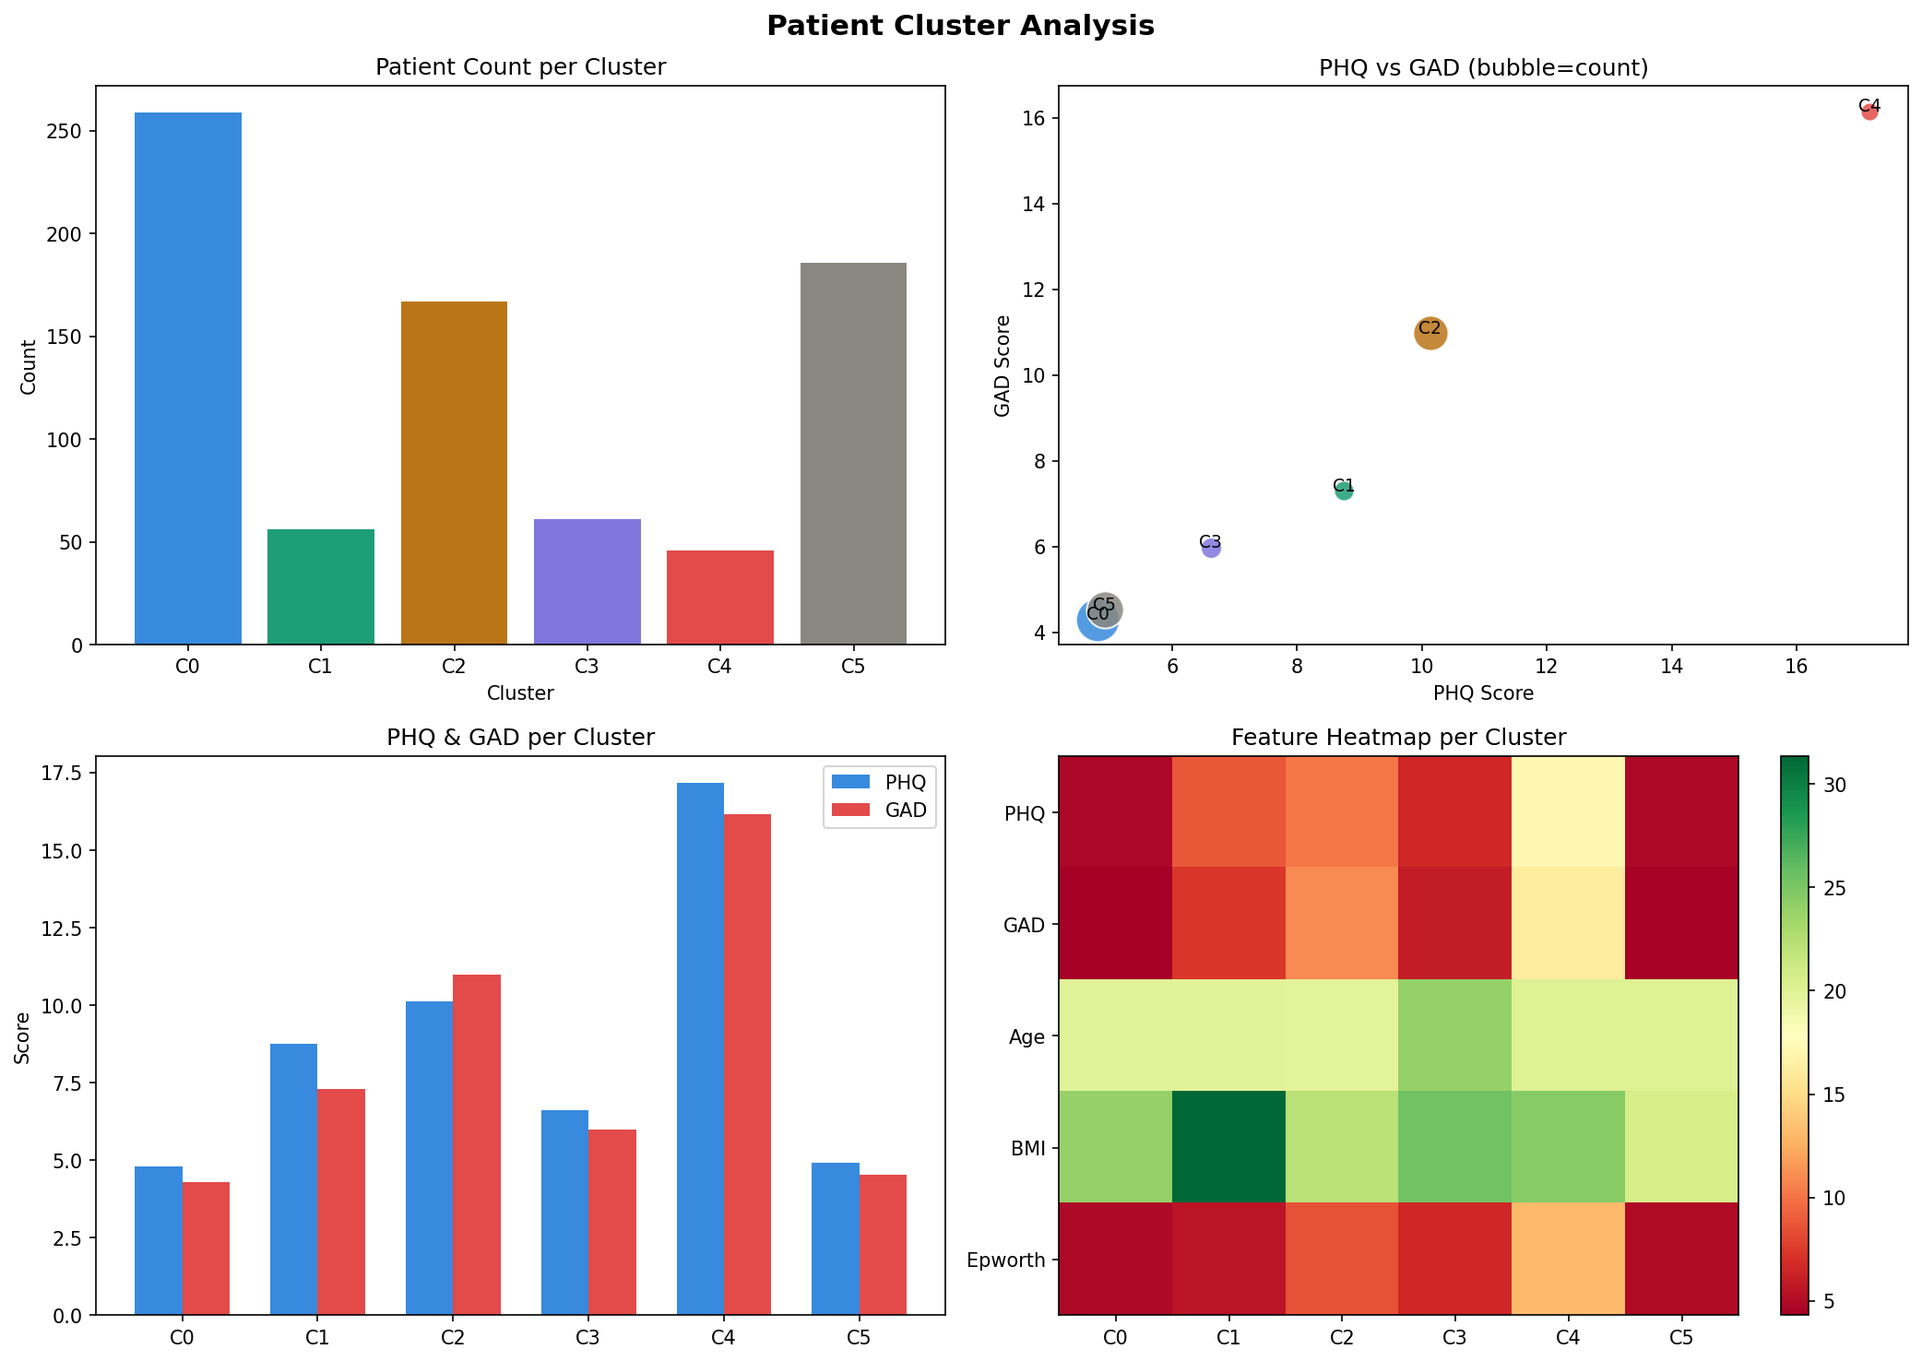
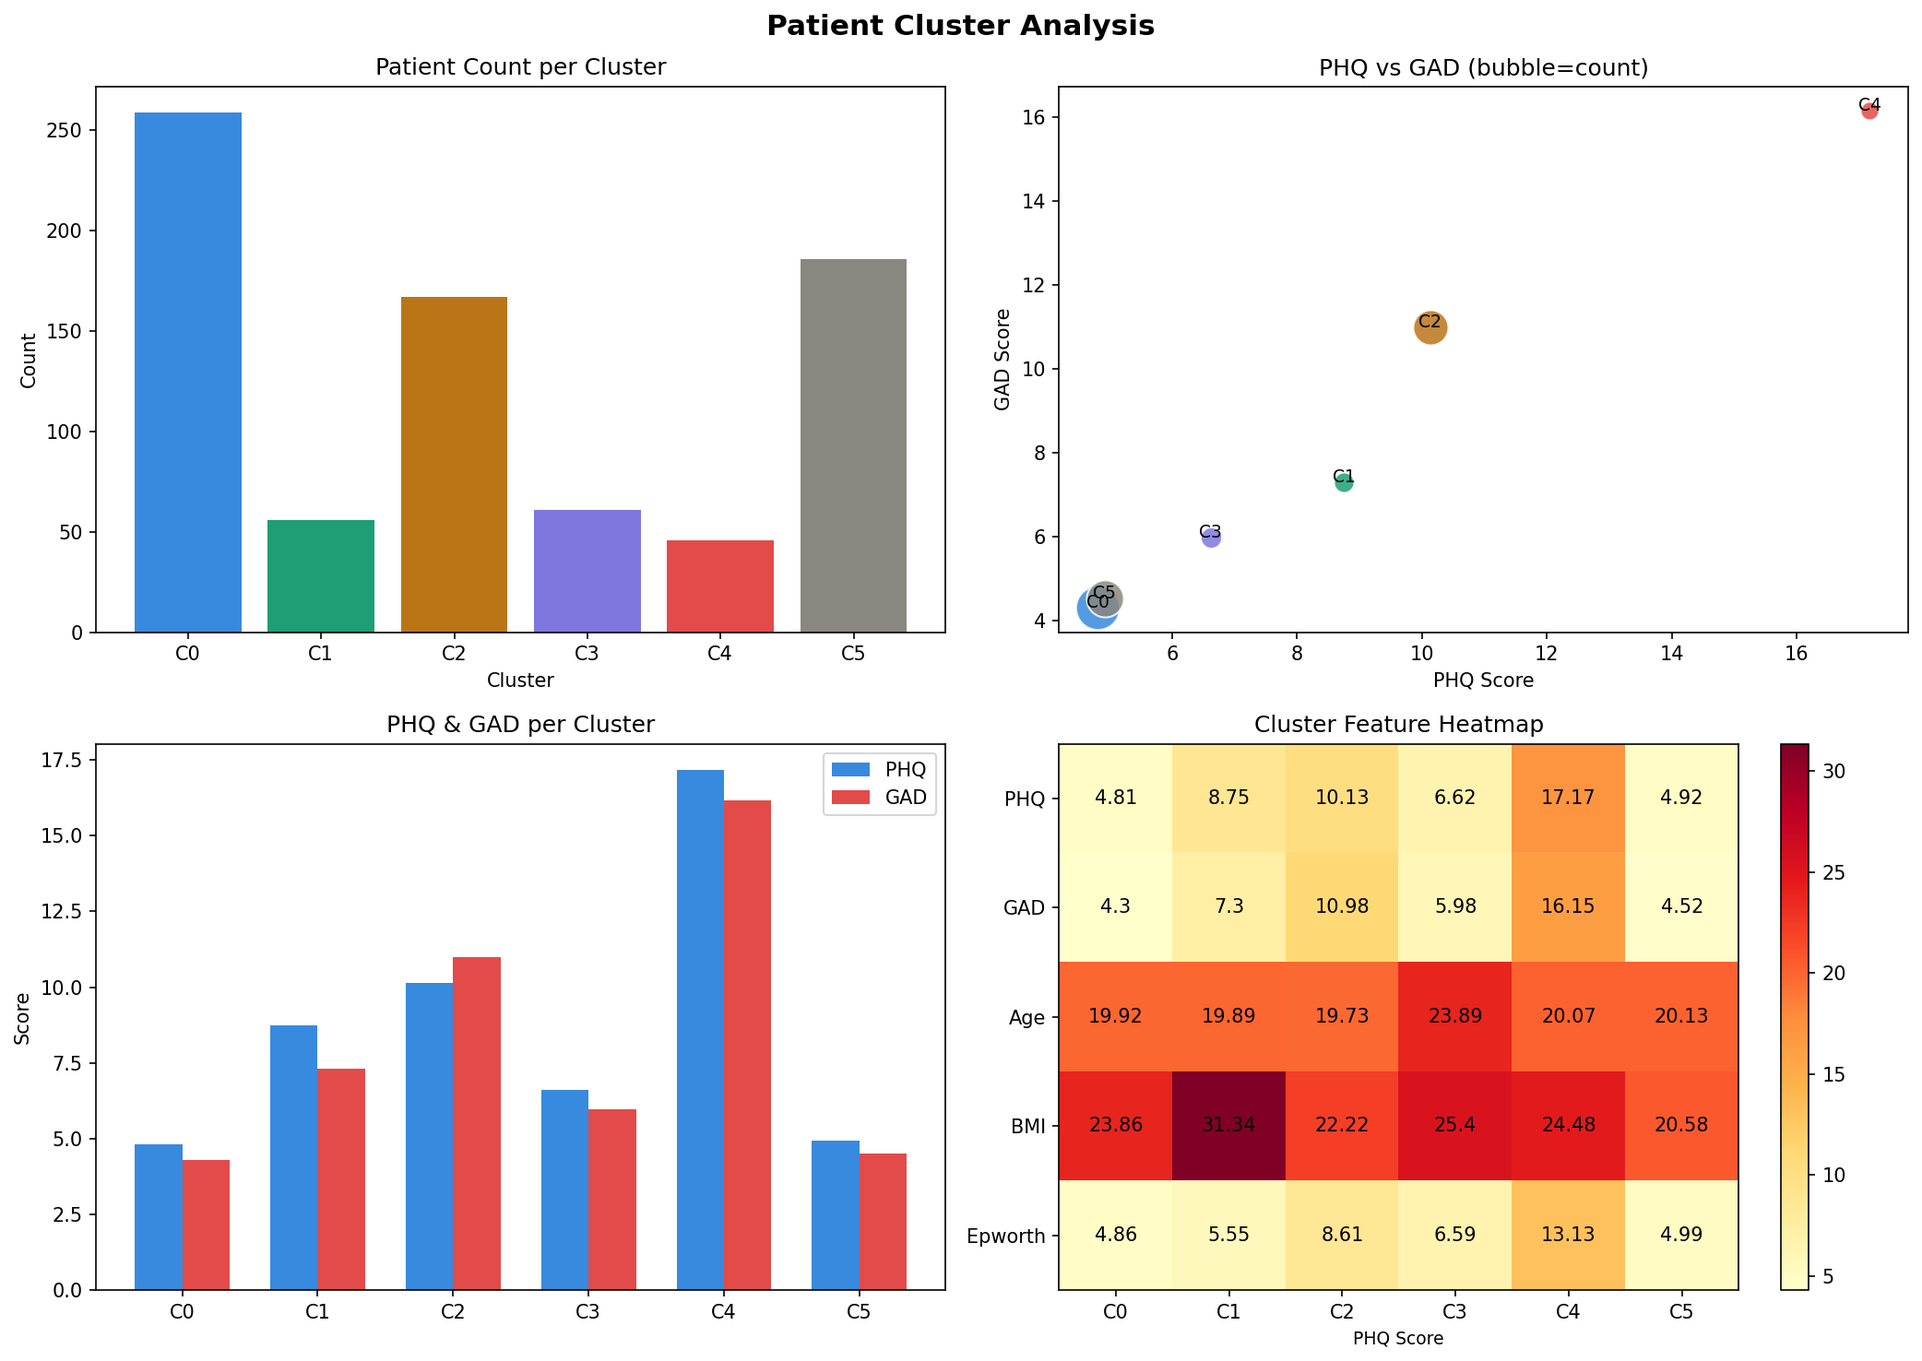
Changes in scripts

diff --git a/scripts/week3/ds3_geo_spatial_analysis.py b/scripts/week3/ds3_geo_spatial_analysis.py
@@ -13,7 +13,7 @@ imd    = pd.read_csv("datasets/File_1_IoD2025 Index of Multiple Deprivation.csv"
 lookup = pd.read_csv("datasets/LSOA_(2021)_to_SICBL_to_ICB_to_LAD_(April_2023)_Lookup_in_EN.csv")
 icb_map= gpd.read_file("datasets/ICB_APR_2023_EN_BGC.shp")
 
-# ── NHS service metrics by ICB ────────────────────────────────────────────────
+# NHS service metrics by ICB 
 nhs_sub = nhs[nhs['GROUP_TYPE']=='SubICB'].copy()
 nhs_sub['MEASURE_VALUE_SUPPRESSED'] = pd.to_numeric(nhs_sub['MEASURE_VALUE_SUPPRESSED'], errors='coerce')
 code_to_icb = lookup[['SICBL23CDH','ICB23NM']].drop_duplicates().rename(columns={'SICBL23CDH':'ORG_CODE1'})
@@ -33,7 +33,7 @@ for measure,(col,agg) in metrics.items():
     service = sub if service is None else service.merge(sub,on='ICB23NM',how='outer')
 service['Access_Rate'] = (service['Accessing']/service['Referrals']*100).round(2)
 
-# ── IMD → ICB ─────────────────────────────────────────────────────────────────
+# IMD -> ICB 
 imd = imd.rename(columns={
     'LSOA code (2021)':'LSOA21CD',
     'Index of Multiple Deprivation (IMD) Rank (where 1 is most deprived)':'IMD_Rank',
@@ -47,7 +47,7 @@ imd_icb = (imd.merge(lookup[['LSOA21CD','ICB23NM']],on='LSOA21CD',how='inner')
                                    IMD_Decile_Mean=('IMD_Decile','mean'),
                                    n_LSOAs=('LSOA21CD','count')).reset_index().round(4))
 
-# ── Join + Unmet Need Score ───────────────────────────────────────────────────
+# Join + Unmet Need Score 
 final = service.merge(imd_icb, on='ICB23NM', how='inner')
 
 def norm(s, invert=False):
@@ -70,10 +70,10 @@ final['underserved'] = (
      (final['Recovery_Rate']<= final['Recovery_Rate'].quantile(0.25)))
 )
 
-# ── Spatial join ──────────────────────────────────────────────────────────────
+# Spatial join 
 geo = icb_map.to_crs('EPSG:27700').merge(final, on='ICB23NM', how='left')
 
-# ── Plot 1: IMD map ───────────────────────────────────────────────────────────
+# Plot 1: IMD map 
 fig, ax = plt.subplots(figsize=(7, 7))
 geo.plot(ax=ax, column='IMD_Score_Mean', cmap='YlOrRd', linewidth=0.5, edgecolor='gray', legend=True)
 for _,row in geo.nlargest(5,'IMD_Score_Mean').iterrows():
@@ -85,7 +85,7 @@ ax.set_title('Average IMD Score by ICB — England',fontsize=12,fontweight='bold
 plt.tight_layout()
 plt.savefig(f"{OUT}/spatial_imd_map.png", dpi=150, bbox_inches='tight'); plt.close()
 
-# ── Plot 2: Access rate map ───────────────────────────────────────────────────
+#  Plot 2: Access rate map 
 fig, ax = plt.subplots(figsize=(7, 7))
 geo.plot(ax=ax, column='Access_Rate', cmap='RdYlGn', linewidth=0.5, edgecolor='gray', legend=True)
 for _,row in geo.nsmallest(5,'Access_Rate').iterrows():
@@ -97,7 +97,7 @@ ax.set_title('NHS Talking Therapies — Access Rate by ICB',fontsize=12,fontweig
 plt.tight_layout()
 plt.savefig(f"{OUT}/spatial_access_rate_map.png", dpi=150, bbox_inches='tight'); plt.close()
 
-# ── Plot 3: Underserved areas ─────────────────────────────────────────────────
+#  Plot 3: Underserved areas 
 fig, ax = plt.subplots(figsize=(7, 7))
 geo[~geo['underserved'].fillna(False)].plot(ax=ax,color='lightgreen',edgecolor='gray',lw=0.6,alpha=0.8)
 geo[geo['underserved'].fillna(False)].plot(ax=ax,color='red',edgecolor='darkred',lw=0.8,alpha=0.9)
@@ -108,7 +108,7 @@ ax.set_title('High-Need / Low-Service ICBs — England',fontsize=12,fontweight='
 plt.tight_layout()
 plt.savefig(f"{OUT}/spatial_underserved_map.png", dpi=150, bbox_inches='tight'); plt.close()
 
-# ── Save CSV ──────────────────────────────────────────────────────────────────
+# Save CSV 
 final.to_csv(f"{OUT}/spatial_icb_analysis.csv", index=False)
 
 n_u = final['underserved'].sum()

diff --git a/scripts/week3/ds2_prescribing_anomaly_detection.py b/scripts/week3/ds2_prescribing_anomaly_detection.py
@@ -33,26 +33,35 @@ df['anomaly_score'] = model.decision_function(X_scaled)
 df['anomaly_flag']  = model.predict(X_scaled)
 df['anomaly_flag']  = df['anomaly_flag'].map({1:'Normal',-1:'Anomaly'})
 
-# ── Plot 1: Score distribution ────────────────────────────────────────────────
-fig, axes = plt.subplots(1, 2, figsize=(14, 5))
+# Plot 1: Score distribution 
+fig, ax = plt.subplots(figsize=(8, 5))
 fig.suptitle('Prescribing Anomaly Detection — Isolation Forest', fontsize=13, fontweight='bold')
 
-axes[0].hist(df[df['anomaly_flag']=='Normal']['anomaly_score'],bins=50,alpha=0.7,color='steelblue',label='Normal')
-axes[0].hist(df[df['anomaly_flag']=='Anomaly']['anomaly_score'],bins=50,alpha=0.7,color='tomato',label='Anomaly')
-axes[0].axvline(0,color='k',linestyle='--',lw=1.5,label='Threshold')
-axes[0].set(title='Anomaly Score Distribution',xlabel='Anomaly Score',ylabel='Count'); axes[0].legend()
+ax.hist(df[df['anomaly_flag']=='Normal']['anomaly_score'], bins=50, alpha=0.7, color='steelblue', label='Normal')
+ax.hist(df[df['anomaly_flag']=='Anomaly']['anomaly_score'], bins=50, alpha=0.7, color='tomato', label='Anomaly')
+ax.axvline(0, color='k', linestyle='--', lw=1.5, label='Threshold')
+ax.set(title='Anomaly Score Distribution', xlabel='Anomaly Score', ylabel='Count')
+ax.legend()
+
+plt.tight_layout()
+plt.savefig(f"{OUT}/anomaly_score_distribution.png", dpi=150, bbox_inches='tight')
+plt.close()
+
+# Plot 2: Top 20 CCGs 
+fig, ax = plt.subplots(figsize=(13, 5))
+fig.suptitle('Prescribing Anomaly Detection — Isolation Forest', fontsize=13, fontweight='bold')
 
 top20 = (df[df['anomaly_flag']=='Anomaly'].groupby('row_name')['anomaly_flag']
          .count().sort_values(ascending=False).head(20))
-top20.plot(kind='bar',color='tomato',alpha=0.8,ax=axes[1],edgecolor='none')
-axes[1].set(title='Top 20 CCGs — Most Anomalous Months',xlabel='',ylabel='Anomalous Months')
-axes[1].tick_params(axis='x',rotation=45)
+top20.plot(kind='bar', color='tomato', alpha=0.8, ax=ax, edgecolor='none')
+ax.set(title='Top 20 CCGs — Most Anomalous Months', xlabel='', ylabel='Anomalous Months')
+ax.tick_params(axis='x', rotation=45)
 
 plt.tight_layout()
-plt.savefig(f"{OUT}/anomaly_overview.png", dpi=150, bbox_inches='tight')
+plt.savefig(f"{OUT}/anomaly_top20_ccgs.png", dpi=150, bbox_inches='tight')
 plt.close()
 
-# ── Plot 2: Heatmap top 10 CCGs ──────────────────────────────────────────────
+# Plot 3: Heatmap top 10 CCGs 
 top10 = df[df['anomaly_flag']=='Anomaly']['row_name'].value_counts().head(10).index
 pivot = df[df['row_name'].isin(top10)].pivot_table(index='row_name',columns='date',values='anomaly_score')
 fig, ax = plt.subplots(figsize=(18, 6))
@@ -62,7 +71,7 @@ plt.tight_layout()
 plt.savefig(f"{OUT}/anomaly_heatmap.png", dpi=150, bbox_inches='tight')
 plt.close()
 
-# ── Save CSV ──────────────────────────────────────────────────────────────────
+# Save CSV 
 out = df[['row_id','row_name','date','actual_cost','items','quantity','total_list_size',
           'cost_per_patient','items_per_patient','quantity_per_patient',
           'cost_per_item','quantity_per_item','anomaly_score','anomaly_flag']].copy()

diff --git a/scripts/week1/ds3_distribution_analysis.py b/scripts/week1/ds3_distribution_analysis.py
@@ -43,7 +43,7 @@ cmd_emp    = pd.DataFrame(raw['cmd_employment'].iloc[25:32, 1:5].values.astype(f
 cmd_smoke  = pd.DataFrame(raw['cmd_smoking'].iloc[25:32,  1:5].values.astype(float), index=DISORDERS, columns=SMOKE)
 cmd_region = pd.DataFrame(raw['cmd_region'].iloc[25:32,   1:10].values.astype(float), index=DISORDERS, columns=REGIONS_S)
 
-# ── Plot 1: CIS-R by sex and age ──────────────────────────────────────────────
+# Plot 1: CIS-R by sex and age 
 fig, axes = plt.subplots(1, 2, figsize=(12, 5))
 fig.suptitle('CIS-R Score Distribution by Sex - APMS 2014', fontsize=13, fontweight='bold')
 x = np.arange(4); w = 0.3
@@ -60,7 +60,7 @@ axes[1].set_xticks(xs); axes[1].set_xticklabels(AGES[:-1], rotation=30)
 axes[1].set(ylabel='CIS-R ≥12 (%)', title='Clinical-Level CMD by Age & Sex'); axes[1].legend()
 plt.tight_layout(); plt.savefig(f"{OUT}/dist_cisr_sex_age.png", dpi=150, bbox_inches='tight'); plt.close()
 
-# ── Plot 2: CMD heatmap + sex bar ────────────────────────────────────────────
+# Plot 2: CMD heatmap + sex bar 
 fig, axes = plt.subplots(1, 2, figsize=(16, 5))
 fig.suptitle('CMD Disorder Prevalence - APMS 2014', fontsize=13, fontweight='bold')
 mat = cmd_age.iloc[:6,:7].values.astype(float)
@@ -79,7 +79,7 @@ axes[1].set_xticks(x); axes[1].set_xticklabels(DISORDERS[:6],rotation=15)
 axes[1].set(ylabel='Prevalence (%)',title='Prevalence by Sex'); axes[1].legend()
 plt.tight_layout(); plt.savefig(f"{OUT}/dist_cmd_heatmap_sex.png",dpi=150,bbox_inches='tight'); plt.close()
 
-# ── Plot 3: Any CMD across segments ──────────────────────────────────────────
+# Plot 3: Any CMD across segments 
 fig, axes = plt.subplots(1, 3, figsize=(18, 5))
 fig.suptitle('Any CMD Across Population Segments - APMS 2014', fontsize=13, fontweight='bold')
 for ax, vals, labels, title in [
@@ -93,7 +93,7 @@ for ax, vals, labels, title in [
     ax.set(ylabel='Any CMD (%)',title=title); ax.set_ylim(0,max(vals)*1.3)
 plt.tight_layout(); plt.savefig(f"{OUT}/dist_any_cmd_segments.png",dpi=150,bbox_inches='tight'); plt.close()
 
-# ── Plot 4: Regional CMD ──────────────────────────────────────────────────────
+# Plot 4: Regional CMD 
 fig, axes = plt.subplots(1, 2, figsize=(16, 5))
 fig.suptitle('Regional CMD — APMS 2014', fontsize=13, fontweight='bold')
 ra = cmd_region.loc['Any CMD'].sort_values()
@@ -111,7 +111,7 @@ for i in range(6):
 axes[1].set_title('Disorder x Region (%)'); plt.colorbar(im2,ax=axes[1],fraction=0.03)
 plt.tight_layout(); plt.savefig(f"{OUT}/dist_regional_cmd.png",dpi=150,bbox_inches='tight'); plt.close()
 
-# ── Plot 5: Temporal trend ────────────────────────────────────────────────────
+# Plot 5: Temporal trend 
 years = [1993,2000,2007,2014]
 trend = {'Men':[10.5,13.4,12.6,13.6],'Women':[17.7,19.2,20.1,21.4],'All':[14.1,16.4,16.4,17.6]}
 fig, axes = plt.subplots(1, 2, figsize=(14, 5))

diff --git a/scripts/week3/ds1_iapt_demand_forecasting.py b/scripts/week3/ds1_iapt_demand_forecasting.py
@@ -16,7 +16,7 @@ df['Month'] = pd.to_datetime(df['Month'], format='%b-%y')
 split = df['Month'].max() - pd.DateOffset(months=6)
 train, test = df[df['Month']<=split], df[df['Month']>split]
 
-# ── Prophet ───────────────────────────────────────────────────────────────────
+# Prophet 
 p_train = train[['Month','Referrals_Received']].rename(columns={'Month':'ds','Referrals_Received':'y'})
 p_test  = test[['Month','Referrals_Received']].rename(columns={'Month':'ds','Referrals_Received':'y'})
 
@@ -27,7 +27,7 @@ p_pred  = m.predict(m.make_future_dataframe(periods=len(p_test),freq='MS',includ
 p_mae   = mean_absolute_error(p_test['y'].values, p_pred)
 p_rmse  = np.sqrt(mean_squared_error(p_test['y'].values, p_pred))
 
-# ── ARIMA ─────────────────────────────────────────────────────────────────────
+# ARIMA 
 arima_tr = train.set_index('Month')['Referrals_Received']
 arima_te = test.set_index('Month')['Referrals_Received']
 ar_res   = ARIMA(arima_tr, order=(2,1,2)).fit()
@@ -35,7 +35,7 @@ ar_pred  = ar_res.predict(start=arima_te.index.min(), end=arima_te.index.max(), 
 a_mae    = mean_absolute_error(arima_te.values, ar_pred.values)
 a_rmse   = np.sqrt(mean_squared_error(arima_te.values, ar_pred.values))
 
-# ── Plot 1: Actual vs Predicted ───────────────────────────────────────────────
+# Plot 1: Actual vs Predicted 
 fig, axes = plt.subplots(1, 2, figsize=(13, 5))
 fig.suptitle('IAPT Referral Forecast — Model Comparison', fontsize=13, fontweight='bold')
 
@@ -53,7 +53,7 @@ plt.tight_layout()
 plt.savefig(f"{OUT}/forecast_model_comparison.png", dpi=150, bbox_inches='tight')
 plt.close()
 
-# ── Plot 2: 3-month ahead forecast ───────────────────────────────────────────
+# Plot 2: 3-month ahead forecast 
 fig, ax = plt.subplots(figsize=(13, 5))
 ax.plot(df['Month'],df['Referrals_Received'],label='Historical',color='steelblue',lw=2)
 ax.plot(fc['ds'],fc['yhat'],label='Prophet Forecast',color='tomato',lw=2,linestyle='--')
@@ -63,7 +63,7 @@ ax.legend(); ax.grid(alpha=0.3); plt.xticks(rotation=45); plt.tight_layout()
 plt.savefig(f"{OUT}/forecast_3month_ahead.png", dpi=150, bbox_inches='tight')
 plt.close()
 
-# ── Save forecast CSV ─────────────────────────────────────────────────────────
+# Save forecast CSV 
 fc_out = fc[['ds','yhat','yhat_lower','yhat_upper']].tail(3).rename(
     columns={'ds':'Month','yhat':'Forecast','yhat_lower':'CI_Lower','yhat_upper':'CI_Upper'})
 fc_out.to_csv(f"{OUT}/forecast_3month_values.csv", index=False)

diff --git a/scripts/week2/ds3_temporal_pattern_detection.py b/scripts/week2/ds3_temporal_pattern_detection.py
@@ -21,7 +21,7 @@ LABELS = ['Burglary worry','Car crime worry','Violent crime worry',
 for col in COLS:
     df[f'{col}_ra3'] = df[col].rolling(window=3, min_periods=2).mean().round(4)
 
-# ── Plot 1: Rolling averages ──────────────────────────────────────────────────
+# Plot 1: Rolling averages 
 fig, axes = plt.subplots(2, 1, figsize=(12, 8))
 fig.suptitle('CSEW Mental Health Proxy - 3-Year Rolling Averages', fontsize=13, fontweight='bold')
 
@@ -43,7 +43,7 @@ plt.tight_layout()
 plt.savefig(f"{OUT}/temporal_rolling_averages.png", dpi=150, bbox_inches='tight')
 plt.close()
 
-# ── Chow Test ────────────────────────────────────────────────────────────────
+# Chow Test 
 def chow_test(series, years, break_year):
     mask = ~np.isnan(series); y=series[mask]; x=years[mask]
     def rss(xs,ys):
@@ -66,7 +66,7 @@ for col,lbl in zip(COLS,LABELS):
                     'Significant':'YES' if isinstance(p,float) and p<0.05 else 'NO'})
 res_df = pd.DataFrame(results)
 
-# ── Plot 2: F-stat scan for each variable ────────────────────────────────────
+# Plot 2: F-stat scan for each variable 
 fig, axes = plt.subplots(2, 3, figsize=(16, 8))
 fig.suptitle('Chow Test — Structural Break Scan per Variable', fontsize=13, fontweight='bold')
 axes = axes.flatten()

diff --git a/scripts/week2/ds2_clustering_patient_segments.py b/scripts/week2/ds2_clustering_patient_segments.py
@@ -60,11 +60,24 @@ axes[1,0].bar(x+w/2,profiles['gad_score'],w,label='GAD',color='#E24B4A',edgecolo
 axes[1,0].set_xticks(x); axes[1,0].set_xticklabels([f'C{i}' for i in range(best_k)])
 axes[1,0].set(title='PHQ & GAD per Cluster',ylabel='Score'); axes[1,0].legend()
 
-hm = profiles[['phq_score','gad_score','age','bmi','epworth_score']].values
-im = axes[1,1].imshow(hm.T,cmap='RdYlGn',aspect='auto')
-axes[1,1].set_xticks(range(best_k)); axes[1,1].set_xticklabels([f'C{i}' for i in range(best_k)])
-axes[1,1].set_yticks(range(5)); axes[1,1].set_yticklabels(['PHQ','GAD','Age','BMI','Epworth'])
-axes[1,1].set_title('Feature Heatmap per Cluster'); plt.colorbar(im,ax=axes[1,1])
+feat_labels = ['PHQ', 'GAD', 'Age', 'BMI', 'Epworth']
+hm = profiles[['phq_score','gad_score','age','bmi','epworth_score']].values  # shape (6, 5)
+
+im = axes[1,1].imshow(hm.T, cmap='YlOrRd', aspect='auto')
+
+for i in range(best_k):       
+    for j in range(len(feat_labels)):   
+        axes[1,1].text(i, j, f"{hm[i, j]}", ha='center', va='center',
+                       fontsize=10, color='black')
+
+axes[1,1].set_xticks(range(best_k))
+axes[1,1].set_xticklabels([f'C{i}' for i in range(best_k)])
+axes[1,1].set_yticks(range(len(feat_labels)))
+axes[1,1].set_yticklabels(feat_labels)
+axes[1,1].set_title('Cluster Feature Heatmap', fontsize=12)
+axes[1,1].set_xlabel('PHQ Score', fontsize=9)
+
+plt.colorbar(im, ax=axes[1,1])
 
 plt.tight_layout()
 plt.savefig(f"{OUT}/cluster_analysis.png", dpi=150, bbox_inches='tight')
